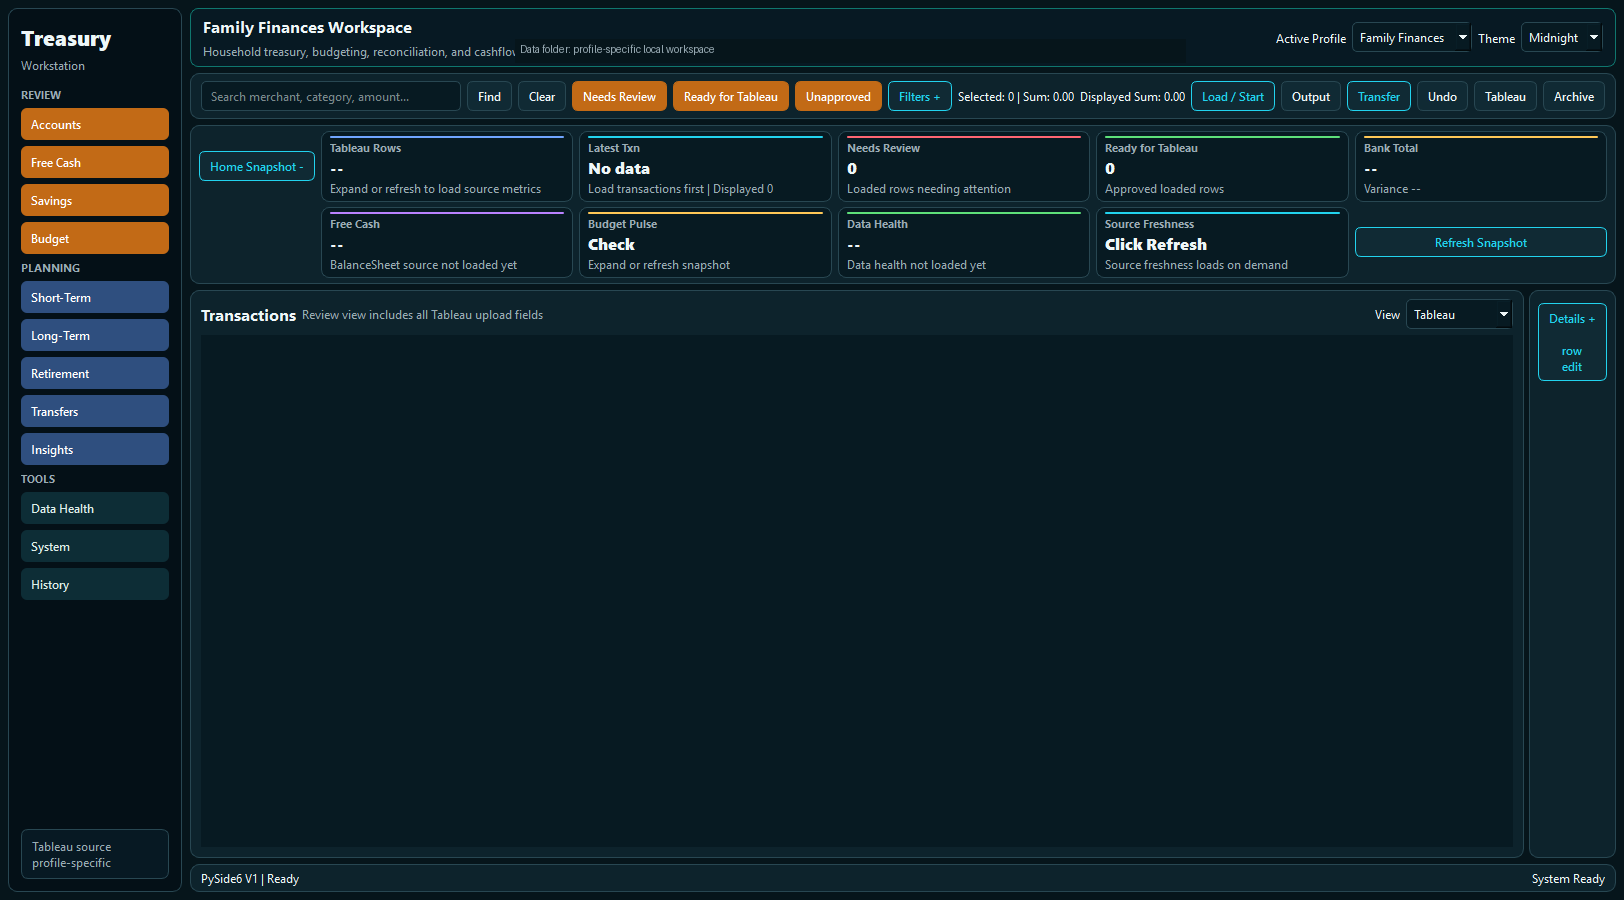
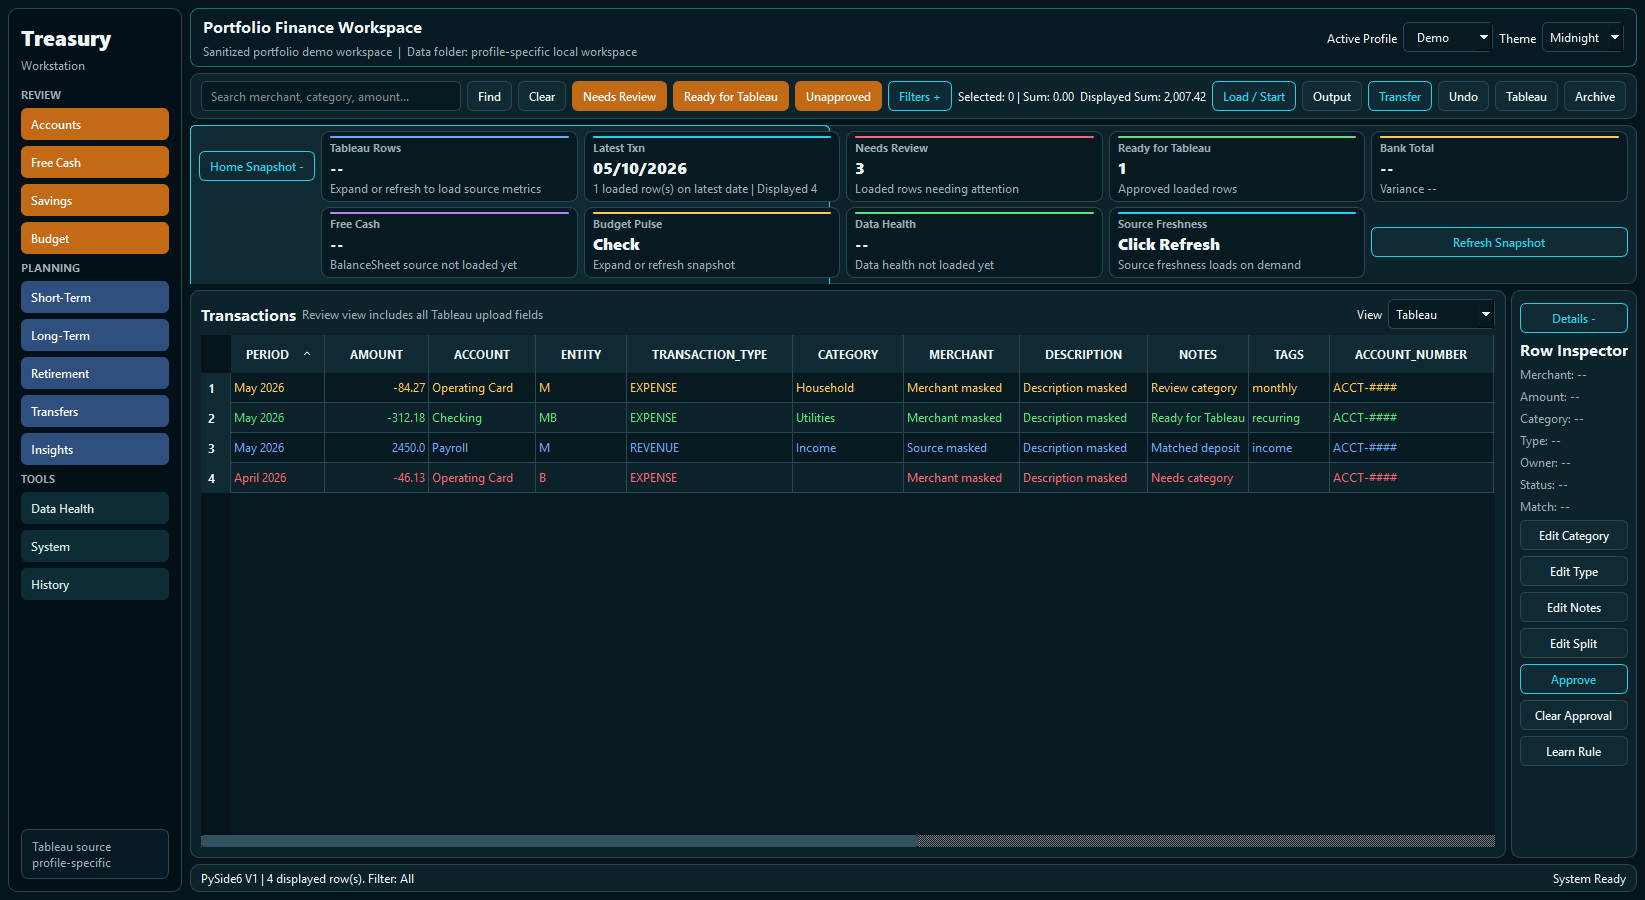
Polish screenshots and Spanish toggle

diff --git a/assets/site.js b/assets/site.js
@@ -7,7 +7,7 @@
       "Contact": "Contacto",
       "Marcos M. Conde": "Marcos M. Conde",
       "Finance, treasury, banking operations, and automation": "Finanzas, tesoreria, operaciones bancarias y automatizacion",
-      "Marcos M. Conde builds tools from real operational pressure.": "Marcos M. Conde crea herramientas a partir de presion operativa real.",
+      "Marcos M. Conde builds practical tools that solve operational problems and workflow friction.": "Marcos M. Conde crea herramientas practicas que resuelven problemas operativos y friccion en los flujos de trabajo.",
       "Career systems, automation tools, and AI-assisted workflows built from real finance, treasury, banking, and controls problems.": "Sistemas profesionales, herramientas de automatizacion y flujos asistidos por IA creados a partir de problemas reales de finanzas, tesoreria, banca y controles.",
       "View Projects": "Ver proyectos",
       "Download Resume": "Descargar CV",
@@ -17,6 +17,7 @@
       "Lifecycle workflows, compliance packets, billing, audit trail.": "Flujos de ciclo de vida, paquetes de cumplimiento, facturacion y trazabilidad de auditoria.",
       "Local AI": "IA local",
       "Inventory, OCR, image search, review queues, private memory.": "Inventario, OCR, busqueda de imagenes, colas de revision y memoria privada.",
+      "Inventory": "Inventario",
       "What I build": "Lo que construyo",
       "Operational experience turned into working systems.": "Experiencia operativa convertida en sistemas funcionales.",
       "This portfolio is not a detour from finance and banking operations. It is the proof layer: tools shaped by years of letters of credit, cash management, reconciliations, controls, reporting, and document-heavy workflows.": "Este portafolio no es un desvio de las finanzas y operaciones bancarias. Es la capa de evidencia: herramientas formadas por anos de cartas de credito, gestion de efectivo, conciliaciones, controles, reportes y flujos intensivos en documentos.",
@@ -77,7 +78,87 @@
       "LinkedIn": "LinkedIn",
       "Resume": "CV",
       "Useful tools, prototypes, and automation experiments.": "Herramientas utiles, prototipos y experimentos de automatizacion.",
-      "Not every project needs to be a flagship. These supporting builds show range and repetition: document generation, report production, cleanup workflows, and GUI wrappers around practical tasks.": "No todos los proyectos tienen que ser insignia. Estos trabajos de apoyo muestran rango y repeticion: generacion documental, produccion de reportes, limpieza de datos y GUIs para tareas practicas."
+      "Not every project needs to be a flagship. These supporting builds show range and repetition: document generation, report production, cleanup workflows, and GUI wrappers around practical tasks.": "No todos los proyectos tienen que ser insignia. Estos trabajos de apoyo muestran rango y repeticion: generacion documental, produccion de reportes, limpieza de datos y GUIs para tareas practicas.",
+      "View Case Studies": "Ver casos",
+      "Positioning": "Posicionamiento",
+      "18+ years across letters of credit, cash management, bank account administration, billing operations, reconciliations, controls, regulatory documentation, Tableau dashboards, and Python automation.": "Mas de 18 anos en cartas de credito, gestion de efectivo, administracion de cuentas bancarias, facturacion, conciliaciones, controles, documentacion regulatoria, tableros de Tableau y automatizacion con Python.",
+      "Finance operations, treasury operations, letters of credit operations, banking operations, risk and controls, business process automation, workflow analyst, operations systems analyst, and Python-enabled reporting roles.": "Operaciones financieras, tesoreria, operaciones de cartas de credito, operaciones bancarias, riesgo y controles, automatizacion de procesos, analisis de flujos, sistemas operativos y reportes con Python.",
+      "Managing high-volume operational workflows, translating manual process pain into repeatable tools, preserving review controls, writing clear documentation, and designing interfaces for people who need to scan and act quickly.": "Gestion de flujos operativos de alto volumen, conversion de procesos manuales en herramientas repetibles, preservacion de controles de revision, documentacion clara e interfaces para revisar y actuar rapido.",
+      "The SBLC case study adds a current, sanitized example of Python product thinking applied to letter of credit operations, controls, compliance packets, billing, and audit trails.": "El caso SBLC agrega un ejemplo actual y depurado de pensamiento de producto con Python aplicado a operaciones de cartas de credito, controles, paquetes de cumplimiento, facturacion y auditoria.",
+      "Built workstation-style tooling around account views, budget analysis, cashflow forecasting, data health, reconciliation, and export control.": "Construccion de herramientas tipo estacion de trabajo para vistas de cuentas, analisis presupuestario, pronosticos de caja, salud de datos, conciliacion y control de exportaciones.",
+      "Managed and improved LC operations across client portfolios, evergreen processing, document review, invoicing, controls, and system-driven workflow logic.": "Gestion y mejora de operaciones LC en portafolios de clientes, procesamiento evergreen, revision documental, facturacion, controles y logica de flujos basada en sistemas.",
+      "Led or supported KRIs, audit-facing processes, reconciliations, journal-entry controls, compliance documentation, and traceable approvals.": "Liderazgo o apoyo en KRIs, procesos frente a auditoria, conciliaciones, controles de asientos contables, documentacion de cumplimiento y aprobaciones trazables.",
+      "Built local-first inventory, OCR, search, duplicate review, tagging, and memory foundations with human review as a default.": "Construccion local de inventario, OCR, busqueda, revision de duplicados, etiquetado y memoria con revision humana como base.",
+      "Created smaller tools for document generation, report production, budgeting, system checks, and GUI wrappers around recurring tasks.": "Creacion de herramientas menores para generacion documental, produccion de reportes, presupuestos, revisiones del sistema y GUIs para tareas recurrentes.",
+      "Conde Builds is designed for LinkedIn, portfolio review, and conversations about practical Python automation, treasury workflows, controls, and AI-assisted systems.": "Conde Builds esta disenado para LinkedIn, revision de portafolio y conversaciones sobre automatizacion practica con Python, flujos de tesoreria, controles y sistemas asistidos por IA.",
+      "Download the current PDF": "Descargar el PDF actual",
+      "Home": "Inicio",
+      "Budget Analyzer": "Analizador de presupuesto",
+      "Python GUI that compares budget targets against rolling yearly averages from Excel or CSV exports.": "GUI en Python que compara metas presupuestarias contra promedios anuales moviles desde exportaciones de Excel o CSV.",
+      "Resume Package Builder": "Constructor de paquetes de CV",
+      "Document automation for generating role-specific resumes, formatted Word outputs, and reusable professional packages.": "Automatizacion documental para generar CVs especificos por rol, salidas Word formateadas y paquetes profesionales reutilizables.",
+      "PDF Report Generation": "Generacion de reportes PDF",
+      "Scripts that convert structured research and planning into polished PDF deliverables.": "Scripts que convierten investigacion y planificacion estructurada en entregables PDF pulidos.",
+      "Gallery Downloader": "Descargador de galerias",
+      "Browser-automation tool kept separate from the public portfolio because it involves private login-based media workflows.": "Herramienta de automatizacion de navegador separada del portafolio publico porque involucra flujos privados con inicio de sesion.",
+      "System Audit Checklist": "Lista de auditoria del sistema",
+      "Local PC audit and update-prep documentation workflows, packaged into readable HTML/PDF outputs.": "Flujos de auditoria de PC local y preparacion de actualizaciones, empaquetados en salidas HTML/PDF legibles.",
+      "Game Prototype Notes": "Notas de prototipo de juego",
+      "Early Unreal/game prototype planning kept as optional proof of broader technical curiosity, not a core career signal.": "Planificacion inicial de prototipos Unreal/juego como prueba opcional de curiosidad tecnica amplia, no como senal central de carrera.",
+      "SBLC Operations Platform Concept": "Concepto de plataforma operativa SBLC",
+      "A control-aware standby letter of credit operating platform concept for lifecycle workflows, document review, compliance packets, billing, and audit-ready process design.": "Concepto de plataforma para cartas de credito standby con enfoque de controles, flujos de ciclo de vida, revision documental, paquetes de cumplimiento, facturacion y diseno listo para auditoria.",
+      "SBLC operations involve high-friction handoffs across party data, lifecycle events, draft review, billing, compliance checks, and audit trails. A useful platform concept needs structure, controls, and review posture before any live integrations.": "Las operaciones SBLC tienen traspasos complejos entre datos de partes, eventos de ciclo de vida, revision de borradores, facturacion, controles de cumplimiento y auditoria. Un concepto util necesita estructura, controles y postura de revision antes de cualquier integracion real.",
+      "A PySide6 and SQLite desktop platform concept with command center metrics, LC file workspace, draft generator, compliance packet builder, billing workspace, Excel report exports, and handbook pages.": "Concepto de plataforma de escritorio con PySide6 y SQLite que incluye metricas de comando, espacio de archivos LC, generador de borradores, paquetes de cumplimiento, facturacion, exportes a Excel y paginas de manual.",
+      "The system is intentionally local and synthetic. It uses demo data, keeps Outlook output as draft metadata only, avoids live SWIFT/sanctions/payment integrations, and treats auditability as a first-class design concern.": "El sistema es intencionalmente local y sintetico. Usa datos demo, mantiene salidas de Outlook solo como metadatos de borrador, evita integraciones reales con SWIFT/sanciones/pagos y trata la auditabilidad como prioridad de diseno.",
+      "All screenshots and reports shown here use synthetic demo records. The prototype does not connect to live banking, sanctions, SWIFT, payment, email, or core-banking systems.": "Todas las capturas y reportes mostrados usan registros demo sinteticos. El prototipo no se conecta a sistemas bancarios reales, sanciones, SWIFT, pagos, correo ni core bancario.",
+      "The prototype is organized around a management command center, file review workspace, and billing/approval workspace.": "El prototipo se organiza alrededor de un centro de comando, un espacio de revision de archivos y un espacio de facturacion/aprobacion.",
+      "Command center for lifecycle pipeline, metrics, and work queue.": "Centro de comando para pipeline de ciclo de vida, metricas y cola de trabajo.",
+      "LC file workspace for source preview, extracted fields, and draft review.": "Espacio de archivos LC para vista previa, campos extraidos y revision de borradores.",
+      "Billing and approval workspace for invoices, payment status, and draft email metadata.": "Espacio de facturacion y aprobacion para facturas, estado de pago y metadatos de borradores de correo.",
+      "Synthetic portfolio only, suitable for public screenshots.": "Portafolio sintetico solamente, apto para capturas publicas.",
+      "Records who did what, when, and against which entity.": "Registra quien hizo que, cuando y contra que entidad.",
+      "Email and document output remains review-first.": "La salida de correo y documentos mantiene revision previa.",
+      "Exports operational, billing, compliance, and data-hygiene workbooks.": "Exporta libros de operaciones, facturacion, cumplimiento e higiene de datos.",
+      "A finance operations command center for turning recurring cash, account, budget, reconciliation, and Tableau workflows into controlled repeatable processes.": "Centro de comando financiero para convertir flujos recurrentes de caja, cuentas, presupuesto, conciliacion y Tableau en procesos controlados y repetibles.",
+      "Recurring treasury workflows often depend on exports, spreadsheet cleanup, account checks, budget review, and manual Tableau handoff. The work is repeatable, but the context is scattered across files, rules, and review steps.": "Los flujos recurrentes de tesoreria suelen depender de exportes, limpieza de hojas de calculo, revision de cuentas, presupuesto y traspaso manual a Tableau. El trabajo es repetible, pero el contexto queda disperso entre archivos, reglas y pasos de revision.",
+      "A Python desktop workstation with profile-based data handling, budget analysis, account reconciliation, cashflow forecasting, backup-aware Tableau export, undo support, and data-health checks.": "Estacion de trabajo de escritorio en Python con manejo de datos por perfil, analisis presupuestario, conciliacion de cuentas, pronosticos de caja, exporte a Tableau con respaldo, soporte para deshacer y controles de salud de datos.",
+      "Moves treasury work from disconnected manual steps into a repeatable operating surface: clearer exceptions, safer exports, faster review, and cleaner reporting inputs.": "Mueve el trabajo de tesoreria de pasos manuales desconectados a una superficie operativa repetible: excepciones mas claras, exportes mas seguros, revision mas rapida y entradas de reporte mas limpias.",
+      "These screens use the current PySide6 V1 build with synthetic portfolio data, masked merchant labels, and masked account tokens.": "Estas pantallas usan la version actual PySide6 V1 con datos sinteticos de portafolio, comercios enmascarados y tokens de cuenta enmascarados.",
+      "Command center with active synthetic rows, masked merchant labels, and masked account tokens.": "Centro de comando con filas sinteticas activas, comercios enmascarados y tokens de cuenta enmascarados.",
+      "Reconciliation view shows review status, match IDs, and masked account values.": "La vista de conciliacion muestra estado de revision, Match IDs y valores de cuenta enmascarados.",
+      "Tableau handoff view filters approved rows before export.": "La vista de traspaso a Tableau filtra filas aprobadas antes del exporte.",
+      "Centralizes cash, account, budget, and reporting workflows.": "Centraliza flujos de caja, cuentas, presupuesto y reportes.",
+      "Preserves review, backup, and undo paths for safer exports.": "Preserva rutas de revision, respaldo y deshacer para exportes mas seguros.",
+      "Turns spreadsheet-heavy work into repeatable operating steps.": "Convierte trabajo intensivo en hojas de calculo en pasos operativos repetibles.",
+      "Surfaces data-health issues before downstream reporting.": "Expone problemas de salud de datos antes de los reportes posteriores.",
+      "A local-first system for organizing documents and still images, adding searchable intelligence, and keeping AI suggestions traceable and reviewable.": "Sistema local para organizar documentos e imagenes fijas, agregar inteligencia buscable y mantener sugerencias de IA trazables y revisables.",
+      "Personal archives become hard to search, back up, deduplicate, and review as they grow across documents, images, media lists, and generated reports. Cloud-first tools can be convenient but do not always fit privacy-sensitive archives.": "Los archivos personales se vuelven dificiles de buscar, respaldar, deduplicar y revisar al crecer entre documentos, imagenes, listas multimedia y reportes generados. Las herramientas en la nube pueden ser convenientes, pero no siempre encajan con archivos sensibles.",
+      "A local Python system with inventory scanning, written-work cataloging, image metadata extraction, OCR, duplicate review, image search, face review, backup verification, media cataloging, review queues, and local Q&A foundations.": "Sistema local en Python con inventario, catalogo de escritos, extraccion de metadatos de imagenes, OCR, revision de duplicados, busqueda visual, revision de rostros, verificacion de respaldos, catalogo multimedia, colas de revision y bases de Q&A local.",
+      "Design rule": "Regla de diseno",
+      "Original files remain read-only unless a separate reviewed action says otherwise. Generated catalogs stay local. Every automated suggestion should trace back to a source file.": "Los archivos originales permanecen de solo lectura salvo que una accion revisada diga lo contrario. Los catalogos generados se quedan locales. Cada sugerencia automatizada debe rastrearse a un archivo fuente.",
+      "This case study intentionally avoids real personal media screenshots. The value is in the architecture and review discipline.": "Este caso evita intencionalmente capturas de medios personales reales. El valor esta en la arquitectura y la disciplina de revision.",
+      "Records path, size, modified time, extension, and optional hashes into a local catalog.": "Registra ruta, tamano, fecha de modificacion, extension y hashes opcionales en un catalogo local.",
+      "Search": "Busqueda",
+      "Builds searchable indexes for written work, metadata, OCR output, and image similarity workflows.": "Construye indices buscables para escritos, metadatos, salidas OCR y flujos de similitud visual.",
+      "Review": "Revision",
+      "Uses approval queues for AI tags, face naming, duplicate review, and portfolio-style outputs.": "Usa colas de aprobacion para etiquetas IA, nombres de rostros, revision de duplicados y salidas tipo portafolio.",
+      "Backups": "Respaldos",
+      "Compares backup scans and exports must-keep project materials into portable packs.": "Compara escaneos de respaldo y exporta materiales esenciales del proyecto en paquetes portables.",
+      "Media catalog": "Catalogo multimedia",
+      "Tracks game, movie, show, and backlog records with quick status views and edits.": "Rastrea juegos, peliculas, series y backlog con vistas de estado y ediciones rapidas.",
+      "Local memory": "Memoria local",
+      "Stores reviewed facts, corrections, and approvals for later reuse in reports and local Q&A.": "Guarda hechos revisados, correcciones y aprobaciones para reutilizarlos en reportes y Q&A local.",
+      "Dashboard overview with inventory totals, image coverage, document-like files, and primary report links.": "Resumen del tablero con totales de inventario, cobertura de imagenes, archivos tipo documento y enlaces principales.",
+      "Launcher and documentation sections show the system as a controlled local operations console.": "Las secciones de lanzadores y documentacion muestran el sistema como una consola operativa local controlada.",
+      "Run tools stay read-only by default, with cleanup and file movement gated behind review and backups.": "Las herramientas de ejecucion son de solo lectura por defecto; limpieza y movimiento de archivos quedan detras de revision y respaldos.",
+      "Desktop finance command center for recurring treasury tasks, dashboards, forecasts, budgets, and Tableau handoff.": "Centro de comando financiero de escritorio para tareas recurrentes de tesoreria, tableros, pronosticos, presupuestos y traspaso a Tableau.",
+      "Prototype operations platform for standby letter of credit lifecycle, billing, compliance, and audit-aware workflows.": "Plataforma prototipo para ciclo de vida SBLC, facturacion, cumplimiento y flujos con conciencia de auditoria.",
+      "Local-first system for inventory, document intelligence, image search, OCR, duplicate review, backup checks, and review queues.": "Sistema local para inventario, inteligencia documental, busqueda de imagenes, OCR, revision de duplicados, controles de respaldo y colas de revision.",
+      "Featured": "Destacado",
+      "Finance": "Finanzas",
+      "Banking": "Banca",
+      "Controls": "Controles",
+      "Local-first": "Local primero"
     }
   };
 
@@ -109,8 +190,8 @@
     });
     localStorage.setItem("condeBuildsLang", lang);
     document.querySelectorAll("[data-language-toggle]").forEach((button) => {
-      button.textContent = lang === "en" ? "Espanol" : "English";
-      button.setAttribute("aria-label", lang === "en" ? "Switch site language to Spanish" : "Cambiar el sitio a ingles");
+      button.textContent = lang === "en" ? "Español" : "English";
+      button.setAttribute("aria-label", lang === "en" ? "Switch site language to Spanish" : "Cambiar el sitio a inglés");
     });
   };
 
@@ -132,7 +213,7 @@
 
   addLanguageToggle();
 
-  const images = Array.from(document.querySelectorAll(".case-image img, .gallery img"));
+  const images = Array.from(document.querySelectorAll(".case-image img, .gallery img, .system-card img"));
   if (!images.length) return;
 
   const modal = document.createElement("div");

diff --git a/assets/styles.css b/assets/styles.css
@@ -823,6 +823,31 @@ a:hover {
   min-height: 150px;
 }
 
+.system-card {
+  display: grid;
+  gap: 12px;
+  padding: 0;
+  overflow: hidden;
+}
+
+.system-card img {
+  width: 100%;
+  aspect-ratio: 16 / 9;
+  object-fit: cover;
+  object-position: top left;
+  border-bottom: 1px solid var(--line);
+}
+
+.system-card h3,
+.system-card p {
+  margin-left: 20px;
+  margin-right: 20px;
+}
+
+.system-card p {
+  margin-bottom: 20px;
+}
+
 @media (max-width: 860px) {
   .nav {
     min-height: auto;

diff --git a/projects/personal-ai-system.html b/projects/personal-ai-system.html
@@ -72,10 +72,26 @@
           <p>This case study intentionally avoids real personal media screenshots. The value is in the architecture and review discipline.</p>
         </div>
         <div class="system-map">
-          <div class="note-card"><h3>Inventory</h3><p>Records path, size, modified time, extension, and optional hashes into a local catalog.</p></div>
-          <div class="note-card"><h3>Search</h3><p>Builds searchable indexes for written work, metadata, OCR output, and image similarity workflows.</p></div>
-          <div class="note-card"><h3>Review</h3><p>Uses approval queues for AI tags, face naming, duplicate review, and portfolio-style outputs.</p></div>
-          <div class="note-card"><h3>Backups</h3><p>Compares backup scans and exports must-keep project materials into portable packs.</p></div>
+          <div class="note-card system-card">
+            <img src="../assets/img/personal-ai-system-map-overview.png" alt="Personal AI overview dashboard">
+            <h3>Inventory</h3>
+            <p>Records path, size, modified time, extension, and optional hashes into a local catalog.</p>
+          </div>
+          <div class="note-card system-card">
+            <img src="../assets/img/personal-ai-system-map-search.png" alt="Personal AI image search workspace">
+            <h3>Search</h3>
+            <p>Builds searchable indexes for written work, metadata, OCR output, and image similarity workflows.</p>
+          </div>
+          <div class="note-card system-card">
+            <img src="../assets/img/personal-ai-system-map-run-tools.png" alt="Personal AI run tools bridge">
+            <h3>Review</h3>
+            <p>Uses approval queues for AI tags, face naming, duplicate review, and portfolio-style outputs.</p>
+          </div>
+          <div class="note-card system-card">
+            <img src="../assets/img/personal-ai-system-map-backups.png" alt="Personal AI backups workspace">
+            <h3>Backups</h3>
+            <p>Compares backup scans and exports must-keep project materials into portable packs.</p>
+          </div>
           <div class="note-card"><h3>Media catalog</h3><p>Tracks game, movie, show, and backlog records with quick status views and edits.</p></div>
           <div class="note-card"><h3>Local memory</h3><p>Stores reviewed facts, corrections, and approvals for later reuse in reports and local Q&A.</p></div>
         </div>

diff --git a/projects/treasury-workstation.html b/projects/treasury-workstation.html
@@ -70,20 +70,20 @@
             <p class="eyebrow">Gallery</p>
             <h2>Sanitized interface views.</h2>
           </div>
-          <p>These screens show the shape of the work without exposing account, family, or private financial details.</p>
+          <p>These screens use the current PySide6 V1 build with synthetic portfolio data, masked merchant labels, and masked account tokens.</p>
         </div>
         <div class="gallery">
           <figure>
-            <img src="../assets/img/treasury-budget.png" alt="Sanitized budget analysis interface">
-            <figcaption>Budget analysis compares targets against rolling yearly averages.</figcaption>
+            <img src="../assets/img/treasury-main.png" alt="Sanitized Treasury Workstation command center with masked transaction rows">
+            <figcaption>Command center with active synthetic rows, masked merchant labels, and masked account tokens.</figcaption>
           </figure>
           <figure>
-            <img src="../assets/img/treasury-cashflow.png" alt="Sanitized cashflow forecast interface">
-            <figcaption>Cashflow forecasting turns trailing activity into a 12-month buffer view.</figcaption>
+            <img src="../assets/img/treasury-reconciliation.png" alt="Sanitized Treasury Workstation reconciliation view">
+            <figcaption>Reconciliation view shows review status, match IDs, and masked account values.</figcaption>
           </figure>
           <figure>
-            <img src="../assets/img/treasury-mockup.png" alt="Treasury command center mockup">
-            <figcaption>Command-center concept for faster scanning and exception review.</figcaption>
+            <img src="../assets/img/treasury-tableau.png" alt="Sanitized Treasury Workstation Tableau export view">
+            <figcaption>Tableau handoff view filters approved rows before export.</figcaption>
           </figure>
         </div>
       </section>

diff --git a/index.html b/index.html
@@ -34,7 +34,7 @@
         <div class="hero-inner">
           <div>
             <p class="eyebrow">Finance, treasury, banking operations, and automation</p>
-            <h1>Marcos M. Conde builds tools from real operational pressure.</h1>
+            <h1>Marcos M. Conde builds practical tools that solve operational problems and workflow friction.</h1>
             <p>Career systems, automation tools, and AI-assisted workflows built from real finance, treasury, banking, and controls problems.</p>
             <div class="hero-actions">
               <a class="button" href="projects/index.html">View Projects</a>